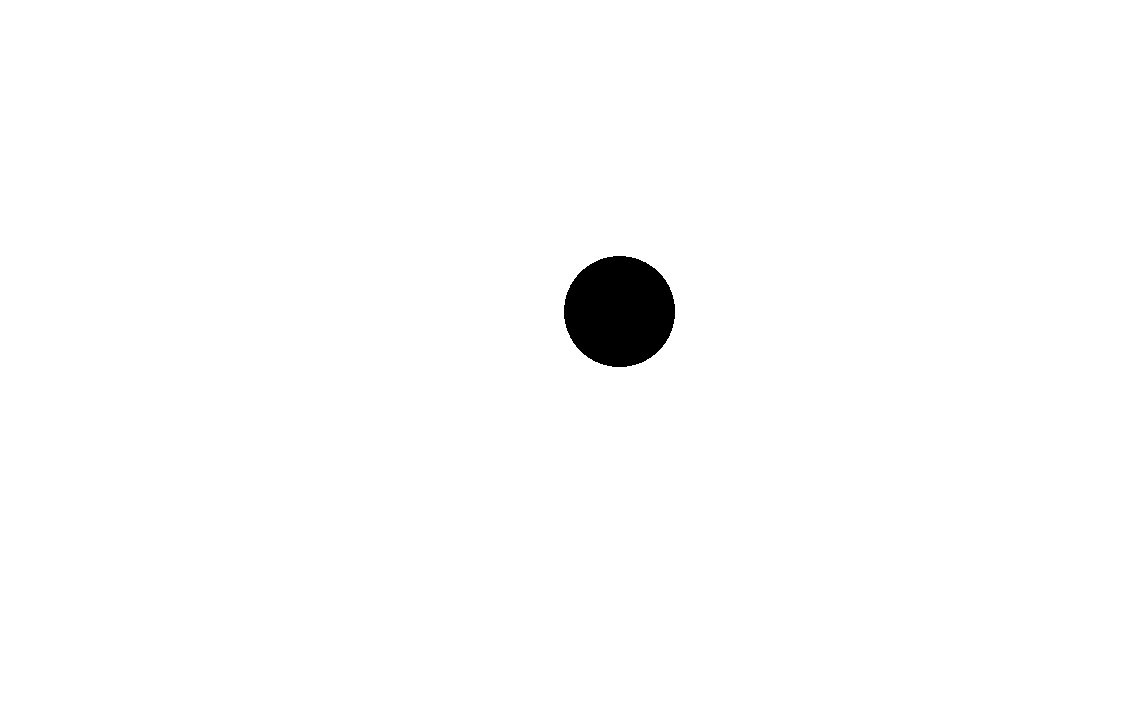
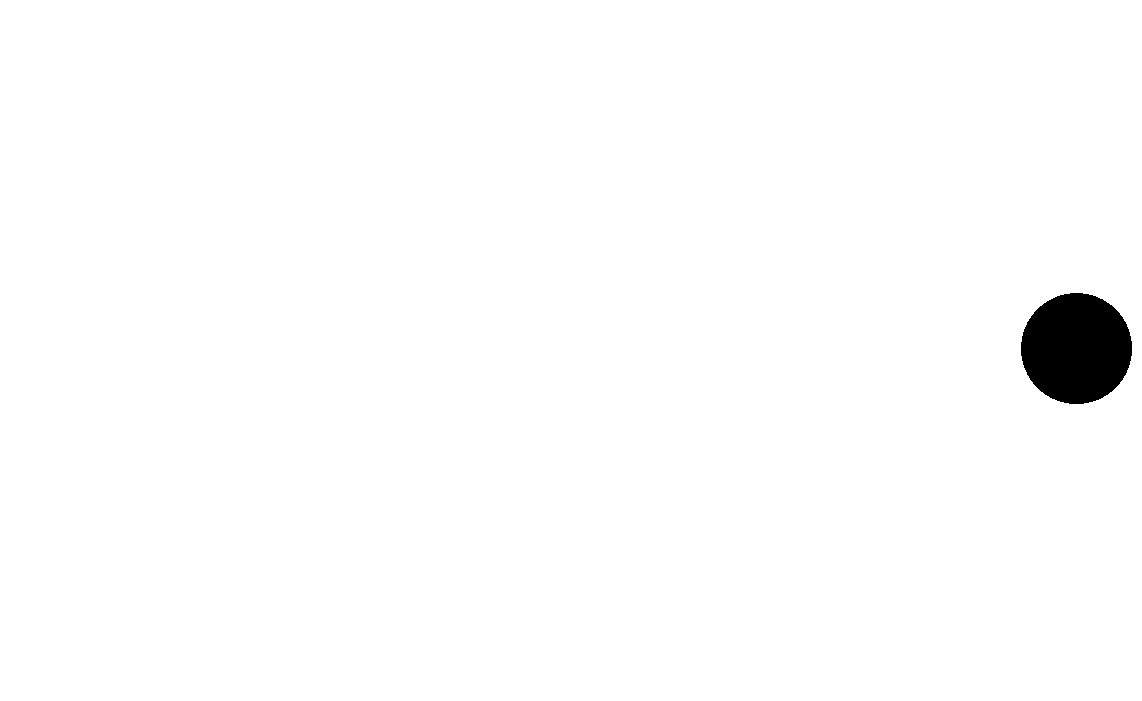
simple trajectory predicion and kalman filter

Changed region(s): [[0.8888, 0.4194, 1.0, 0.5991], [0.4904, 0.3595, 0.613, 0.5392]]

diff --git a/apps/test_trajectory.cpp b/apps/test_trajectory.cpp
@@ -1,0 +1,113 @@
+#include "capture.hpp"
+#include "trajectory.hpp"
+#include <opencv2/opencv.hpp>
+#include <iostream>
+#include <vector>
+#include <string>
+#include <limits>
+
+int main() {
+    std::cout << "Starting trajectory prediction test..." << std::endl;
+
+    ImageCapture capture(0); 
+    TrajectoryPredictor predictor;
+
+    std::vector<std::string> filenames = {"../img/1.png", "../img/2.png", "../img/3.png", "../img/4.png"};
+    uint64_t baseTimestamp = 1000000;  // Start at 1 second (microseconds)
+    uint64_t timeStep = 100000;  // 100ms between images
+
+    std::vector<cv::Point2f> positions;  // Store positions for plotting
+
+    for (size_t i = 0; i < filenames.size(); ++i) {
+        cv::Mat img = cv::imread(filenames[i]);
+        if (img.empty()) {
+            std::cerr << "Failed to load image: " << filenames[i] << std::endl;
+            continue;
+        }
+
+        cv::Mat gray;
+        cv::cvtColor(img, gray, cv::COLOR_BGR2GRAY);
+
+        cv::Point2f puckCenter = capture.detectPuck(gray);
+        if (puckCenter.x >= 0 && puckCenter.y >= 0) {
+            uint64_t timestamp = baseTimestamp + i * timeStep;
+
+            PuckPosition puckPos = {puckCenter, timestamp};
+            predictor.addMeasurement(puckPos);
+            positions.push_back(puckCenter);
+
+            std::cout << "Added measurement from " << filenames[i] << ": (" << puckCenter.x << ", " << puckCenter.y << ") at t=" << timestamp << " us" << std::endl;
+        } else {
+            std::cout << "No puck detected in " << filenames[i] << std::endl;
+        }
+    }
+
+    // Predict future position, e.g., 200ms ahead
+    uint64_t futureTimestamp = baseTimestamp + 4 * timeStep + 100000;  // After last image + 200ms
+    cv::Point2f predictedPos = predictor.predictPosition(futureTimestamp);
+
+    if (predictedPos.x != -1) {
+        std::cout << "Predicted position at t=" << futureTimestamp << " us: (" << predictedPos.x << ", " << predictedPos.y << ")" << std::endl;
+    } else {
+        std::cout << "Prediction failed (not initialized or invalid timestamp)." << std::endl;
+    }
+
+    // Plot the trajectory
+    if (!positions.empty()) {
+        // Collect all points for scaling
+        std::vector<cv::Point2f> allPoints = positions;
+        if (predictedPos.x != -1) {
+            allPoints.push_back(predictedPos);
+        }
+
+        // Find min and max
+        float minX = std::numeric_limits<float>::max();
+        float minY = std::numeric_limits<float>::max();
+        float maxX = std::numeric_limits<float>::min();
+        float maxY = std::numeric_limits<float>::min();
+        for (const auto& p : allPoints) {
+            minX = std::min(minX, p.x);
+            minY = std::min(minY, p.y);
+            maxX = std::max(maxX, p.x);
+            maxY = std::max(maxY, p.y);
+        }
+
+        // Translate so min is at (50, 50)
+        float offsetX = 50 - minX;
+        float offsetY = 50 - minY;
+
+        // Image size based on range + margins
+        int imgWidth = std::max(1280, (int)(maxX - minX + 200));
+        int imgHeight = std::max(720, (int)(maxY - minY + 200));
+        cv::Mat plotImg(imgHeight, imgWidth, CV_8UC3, cv::Scalar(255, 255, 255));  // White background
+
+        // Draw detected positions
+        for (size_t i = 0; i < positions.size(); ++i) {
+            cv::Point2f pos = positions[i] + cv::Point2f(offsetX, offsetY);
+            cv::circle(plotImg, pos, 10, cv::Scalar(0, 255, 0), -1);  // Green circles
+            cv::putText(plotImg, std::to_string(i + 1), pos + cv::Point2f(15, 0), cv::FONT_HERSHEY_SIMPLEX, 0.5, cv::Scalar(0, 255, 0), 1);
+        }
+
+        // Draw trajectory line
+        if (positions.size() > 1) {
+            for (size_t i = 0; i < positions.size() - 1; ++i) {
+                cv::Point2f p1 = positions[i] + cv::Point2f(offsetX, offsetY);
+                cv::Point2f p2 = positions[i + 1] + cv::Point2f(offsetX, offsetY);
+                cv::line(plotImg, p1, p2, cv::Scalar(255, 0, 0), 2);  // Blue line
+            }
+        }
+
+        // Draw predicted position
+        if (predictedPos.x != -1) {
+            cv::Point2f predPos = predictedPos + cv::Point2f(offsetX, offsetY);
+            cv::circle(plotImg, predPos, 15, cv::Scalar(0, 0, 255), -1);  // Red circle
+            cv::putText(plotImg, "Predicted", predPos + cv::Point2f(20, 0), cv::FONT_HERSHEY_SIMPLEX, 0.5, cv::Scalar(0, 0, 255), 1);
+        }
+
+        cv::imshow("Trajectory Plot", plotImg);
+        cv::waitKey(0);
+        cv::destroyAllWindows();
+    }
+
+    return 0;
+}

diff --git a/apps/main.cpp b/apps/main.cpp
@@ -3,44 +3,6 @@
 #include <string>
 
 int main() {
-    ImageCapture capturer; // Uses CAMERA_INDEX from config
-
-    if (!capturer.initialize()) {
-        std::cerr << "Failed to initialize camera." << std::endl;
-        return 1;
-    }
-
-    std::cout << "Camera initialized. Capturing grayscale image..." << std::endl;
-
-    cv::Mat grayImage = capturer.captureGrayscaleImage();
-    if (grayImage.empty()) {
-        std::cerr << "Failed to capture image." << std::endl;
-        return 1;
-    }
-
-    std::cout << "Detecting puck..." << std::endl;
-    std::vector<cv::Vec3f> circles = capturer.detectPuck(grayImage);
-
-    if (circles.empty()) {
-        std::cout << "No puck detected." << std::endl;
-    } else {
-        std::cout << "Detected " << circles.size() << " potential pucks:" << std::endl;
-        for (size_t i = 0; i < circles.size(); i++) {
-            cv::Vec3f c = circles[i];
-            cv::Point2f imageCenter(c[0], c[1]);
-            cv::Point2f tablePos = capturer.imageToTableCoordinates(imageCenter, grayImage.cols, grayImage.rows);
-            std::cout << "Puck " << i+1 << ": Image Center=(" << c[0] << ", " << c[1] << "), Radius=" << c[2] 
-                      << " -> Table Position=(" << tablePos.x << " mm, " << tablePos.y << " mm)" << std::endl;
-        }
-    }
-
-    // Optionally save the grayscale image
-    std::string filename = "captured_gray_image.jpg";
-    if (capturer.saveImage(grayImage, filename)) {
-        std::cout << "Grayscale image saved as " << filename << std::endl;
-    } else {
-        std::cerr << "Failed to save grayscale image." << std::endl;
-    }
-
+    std::cout << "Starting puck detection test..." << std::endl;
     return 0;
 }

diff --git a/src/trajectory.cpp b/src/trajectory.cpp
@@ -1,1 +1,53 @@
 #include "trajectory.hpp"
+
+TrajectoryPredictor::TrajectoryPredictor() : kalmanFilter_(), lastTimestamp_(0), initialized_(false) {}
+
+void TrajectoryPredictor::addMeasurement(const PuckPosition& measurement) {
+    if (!initialized_) {
+        lastTimestamp_ = measurement.timestamp;
+        Eigen::VectorXd initialState(4);
+        initialState << measurement.position.x, measurement.position.y, 0, 0;
+        kalmanFilter_.setState(initialState);
+        initialized_ = true;
+        return;
+    }
+
+    double dt = (measurement.timestamp - lastTimestamp_) / 1000000.0;  // Convert microseconds to seconds
+    if (dt <= 0) return;  
+    lastTimestamp_ = measurement.timestamp;
+
+    // Update F with dt
+    Eigen::MatrixXd F(4, 4);
+    F << 1, 0, dt, 0,
+         0, 1, 0, dt,
+         0, 0, 1, 0,
+         0, 0, 0, 1;
+    kalmanFilter_.setF(F);
+
+    Eigen::VectorXd meas(2);
+    meas << measurement.position.x, measurement.position.y;
+    kalmanFilter_.predict();
+    kalmanFilter_.update(meas);
+}
+
+cv::Point2f TrajectoryPredictor::predictPosition(uint64_t futureTimestamp) {
+    if (!initialized_) return cv::Point2f(-1, -1);  
+
+    double dt = (futureTimestamp - lastTimestamp_) / 1000000.0;
+    if (dt < 0) return cv::Point2f(-1, -1);  
+
+    Eigen::MatrixXd F(4, 4);
+    F << 1, 0, dt, 0,
+         0, 1, 0, dt,
+         0, 0, 1, 0,
+         0, 0, 0, 1;
+    kalmanFilter_.setF(F);
+    kalmanFilter_.predict();
+    Eigen::VectorXd state = kalmanFilter_.getState();
+    return cv::Point2f(state(0), state(1));
+}
+
+void TrajectoryPredictor::reset() {
+    initialized_ = false;
+    lastTimestamp_ = 0;
+}

diff --git a/src/kalman.cpp b/src/kalman.cpp
@@ -1,0 +1,49 @@
+#include "kalman.hpp"
+
+KalmanFilter::KalmanFilter() {
+    // State: [x, y, vx, vy]
+    state_ = Eigen::VectorXd(4);
+    state_ << 0, 0, 0, 0;  // Initial state
+
+    // Covariance matrix - high initial uncertainty
+    P_ = Eigen::MatrixXd::Identity(4, 4) * 1000;
+
+    // State transition matrix 
+    F_ = Eigen::MatrixXd::Identity(4, 4);
+
+    // Measurement matrix 
+    H_ = Eigen::MatrixXd(2, 4);
+    H_ << 1, 0, 0, 0,
+          0, 1, 0, 0;
+
+    // Process noise 
+    Q_ = Eigen::MatrixXd::Identity(4, 4) * 0.01;
+
+    // Measurement noise
+    R_ = Eigen::MatrixXd::Identity(2, 2) * 0.1;
+}
+
+void KalmanFilter::predict() {
+    state_ = F_ * state_;
+    P_ = F_ * P_ * F_.transpose() + Q_;
+}
+
+void KalmanFilter::update(const Eigen::VectorXd& measurement) {
+    Eigen::VectorXd y = measurement - H_ * state_;
+    Eigen::MatrixXd S = H_ * P_ * H_.transpose() + R_;
+    Eigen::MatrixXd K = P_ * H_.transpose() * S.inverse();
+    state_ = state_ + K * y;
+    P_ = (Eigen::MatrixXd::Identity(4, 4) - K * H_) * P_;
+}
+
+Eigen::VectorXd KalmanFilter::getState() const {
+    return state_;
+}
+
+void KalmanFilter::setState(const Eigen::VectorXd& state) {
+    state_ = state;
+}
+
+void KalmanFilter::setF(const Eigen::MatrixXd& F) {
+    F_ = F;
+}

diff --git a/include/kalman.hpp b/include/kalman.hpp
@@ -1,0 +1,24 @@
+#ifndef KALMAN_HPP
+#define KALMAN_HPP
+
+#include <eigen3/Eigen/Dense>
+
+class KalmanFilter {
+public:
+    KalmanFilter();
+    void predict();
+    void update(const Eigen::VectorXd& measurement);
+    Eigen::VectorXd getState() const;
+    void setState(const Eigen::VectorXd& state);
+    void setF(const Eigen::MatrixXd& F);
+
+private:
+    Eigen::VectorXd state_;
+    Eigen::MatrixXd P_;  // Covariance
+    Eigen::MatrixXd F_;  // State transition
+    Eigen::MatrixXd H_;  // Measurement matrix
+    Eigen::MatrixXd Q_;  // Process noise
+    Eigen::MatrixXd R_;  // Measurement noise
+};
+
+#endif // KALMAN_HPP

diff --git a/include/trajectory.hpp b/include/trajectory.hpp
@@ -2,15 +2,22 @@
 #define TRAJECTORY_HPP
 #include <opencv2/opencv.hpp>
 #include <vector>
+#include "kalman.hpp"
+
 struct PuckPosition {
     cv::Point2f position;  // mm
     uint64_t timestamp;    
 };
-// Class to predict puck trajectory using kalman filter
+
 class TrajectoryPredictor {
 public:
     TrajectoryPredictor();
     void addMeasurement(const PuckPosition& measurement);
     cv::Point2f predictPosition(uint64_t futureTimestamp);
+    void reset();  // Reset for lost puck
+private:
+    KalmanFilter kalmanFilter_;
+    uint64_t lastTimestamp_;
+    bool initialized_;
 };
 #endif // TRAJECTORY_HPP
